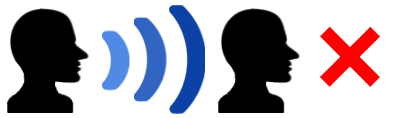
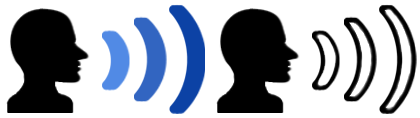
EQ-731: Updated TTS image for Panel & Toolbar.

diff --git a/source/js/slider.js b/source/js/slider.js
@@ -16,7 +16,7 @@ sitecues.use("jquery", "conf", "zoom", function ($, conf, zoom) {
     return new SliderClass(props, _slider);
   };
 
-  _slider.destoryInstances = function () {
+  _slider.destroyInstances = function () {
   };
 
 
